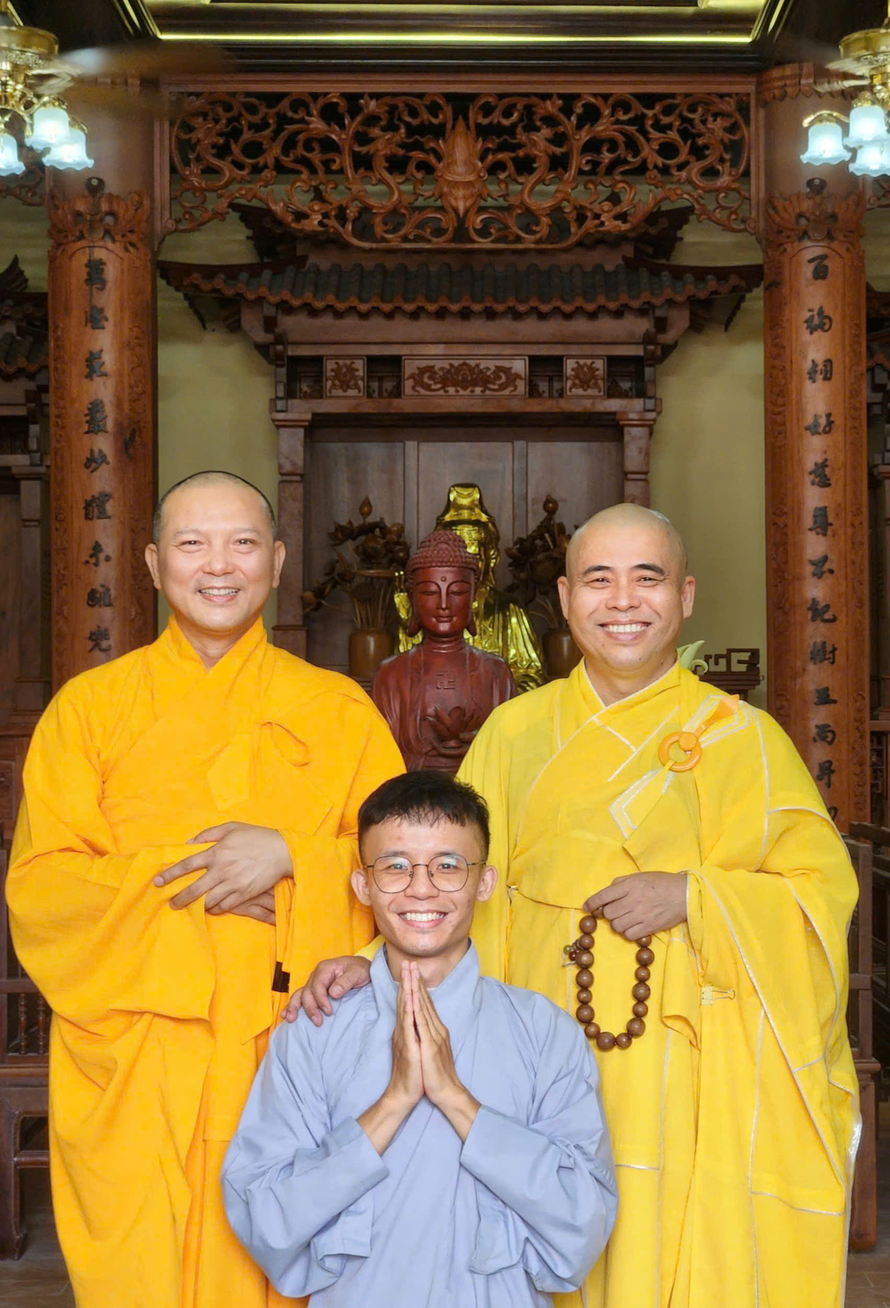
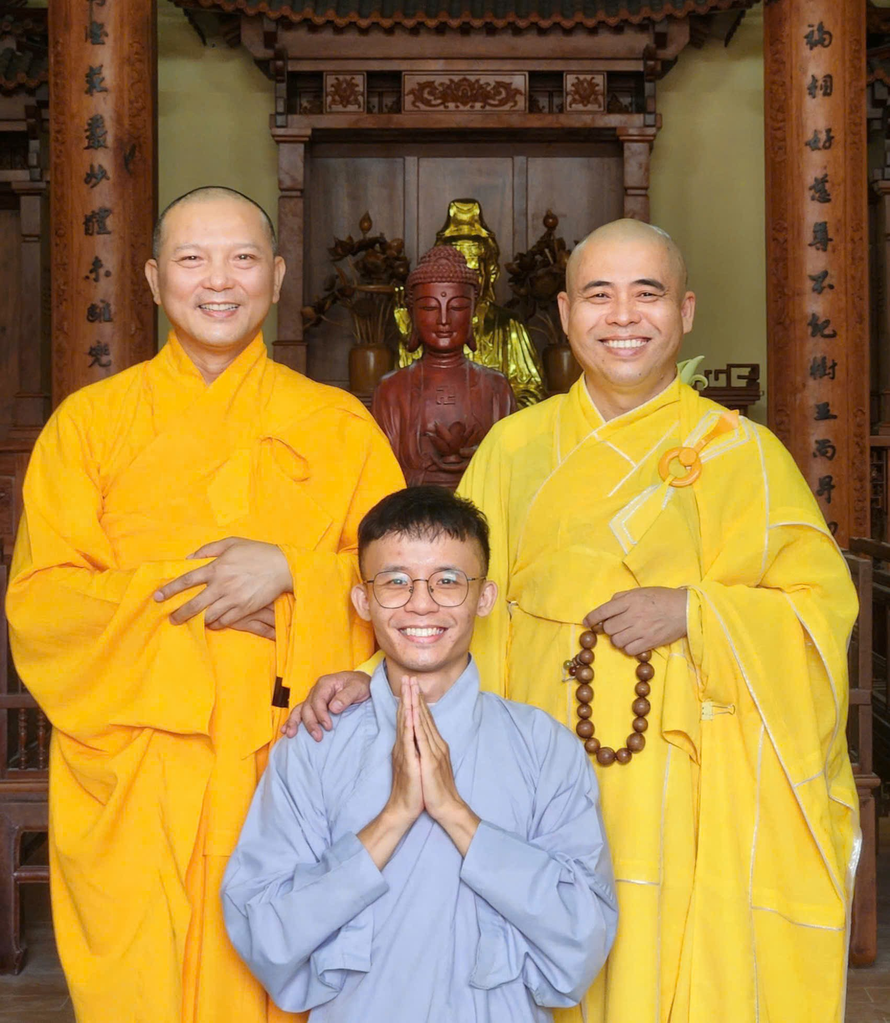
add data

diff --git a/index.html b/index.html
@@ -593,7 +593,7 @@
 
     <section id="step-12" class="step">
         <h2 class="text-3xl md:text-4xl font-heading text-orange-800 mb-6 uppercase tracking-wider text-center">
-            Đại Gia Đình Chánh Tâm
+            Đại Gia Đình Của Thầy
         </h2>
         
         <div class="quote-box text-center mb-8 mx-4">
@@ -601,7 +601,7 @@
         </div>
 
         <div class="grid grid-cols-2 md:grid-cols-4 gap-3 w-full max-w-6xl mb-12 px-4 mx-auto">
-            <!-- 50 Hình ảnh Đại Gia Đình Chánh Tâm -->
+            <!-- 50 Hình ảnh Đại Gia Đình Của Thầy -->
             <div class="aspect-square rounded-xl overflow-hidden border-2 border-white shadow-md"><img data-image="step12_chanhtam_1" class="story-img w-full h-full object-cover transition-transform hover:scale-105 duration-300"></div>
             <div class="aspect-square rounded-xl overflow-hidden border-2 border-white shadow-md"><img data-image="step12_chanhtam_2" class="story-img w-full h-full object-cover transition-transform hover:scale-105 duration-300"></div>
             <div class="aspect-square rounded-xl overflow-hidden border-2 border-white shadow-md"><img data-image="step12_chanhtam_3" class="story-img w-full h-full object-cover transition-transform hover:scale-105 duration-300"></div>
@@ -648,14 +648,6 @@
             
             <div class="aspect-square rounded-xl overflow-hidden border-2 border-white shadow-md"><img data-image="step12_chanhtam_41" class="story-img w-full h-full object-cover transition-transform hover:scale-105 duration-300"></div>
             <div class="aspect-square rounded-xl overflow-hidden border-2 border-white shadow-md"><img data-image="step12_chanhtam_42" class="story-img w-full h-full object-cover transition-transform hover:scale-105 duration-300"></div>
-            <div class="aspect-square rounded-xl overflow-hidden border-2 border-white shadow-md"><img data-image="step12_chanhtam_43" class="story-img w-full h-full object-cover transition-transform hover:scale-105 duration-300"></div>
-            <div class="aspect-square rounded-xl overflow-hidden border-2 border-white shadow-md"><img data-image="step12_chanhtam_44" class="story-img w-full h-full object-cover transition-transform hover:scale-105 duration-300"></div>
-            <div class="aspect-square rounded-xl overflow-hidden border-2 border-white shadow-md"><img data-image="step12_chanhtam_45" class="story-img w-full h-full object-cover transition-transform hover:scale-105 duration-300"></div>
-            <div class="aspect-square rounded-xl overflow-hidden border-2 border-white shadow-md"><img data-image="step12_chanhtam_46" class="story-img w-full h-full object-cover transition-transform hover:scale-105 duration-300"></div>
-            <div class="aspect-square rounded-xl overflow-hidden border-2 border-white shadow-md"><img data-image="step12_chanhtam_47" class="story-img w-full h-full object-cover transition-transform hover:scale-105 duration-300"></div>
-            <div class="aspect-square rounded-xl overflow-hidden border-2 border-white shadow-md"><img data-image="step12_chanhtam_48" class="story-img w-full h-full object-cover transition-transform hover:scale-105 duration-300"></div>
-            <div class="aspect-square rounded-xl overflow-hidden border-2 border-white shadow-md"><img data-image="step12_chanhtam_49" class="story-img w-full h-full object-cover transition-transform hover:scale-105 duration-300"></div>
-            <div class="aspect-square rounded-xl overflow-hidden border-2 border-white shadow-md"><img data-image="step12_chanhtam_50" class="story-img w-full h-full object-cover transition-transform hover:scale-105 duration-300"></div>
         </div>
 
         <button class="btn-orange" onclick="location.reload()">Khép lại hành trình & Quay lại từ đầu</button>
@@ -807,14 +799,6 @@
             "step12_chanhtam_40": "./assets/images/step12_chanhtam_40.jpg",
             "step12_chanhtam_41": "./assets/images/step12_chanhtam_41.jpg",
             "step12_chanhtam_42": "./assets/images/step12_chanhtam_42.jpg",
-            "step12_chanhtam_43": "./assets/images/step12_chanhtam_43.jpg",
-            "step12_chanhtam_44": "./assets/images/step12_chanhtam_44.jpg",
-            "step12_chanhtam_45": "./assets/images/step12_chanhtam_45.jpg",
-            "step12_chanhtam_46": "./assets/images/step12_chanhtam_46.jpg",
-            "step12_chanhtam_47": "./assets/images/step12_chanhtam_47.jpg",
-            "step12_chanhtam_48": "./assets/images/step12_chanhtam_48.jpg",
-            "step12_chanhtam_49": "./assets/images/step12_chanhtam_49.jpg",
-            "step12_chanhtam_50": "./assets/images/step12_chanhtam_50.jpg"
         };
         // =========================================================================
 
